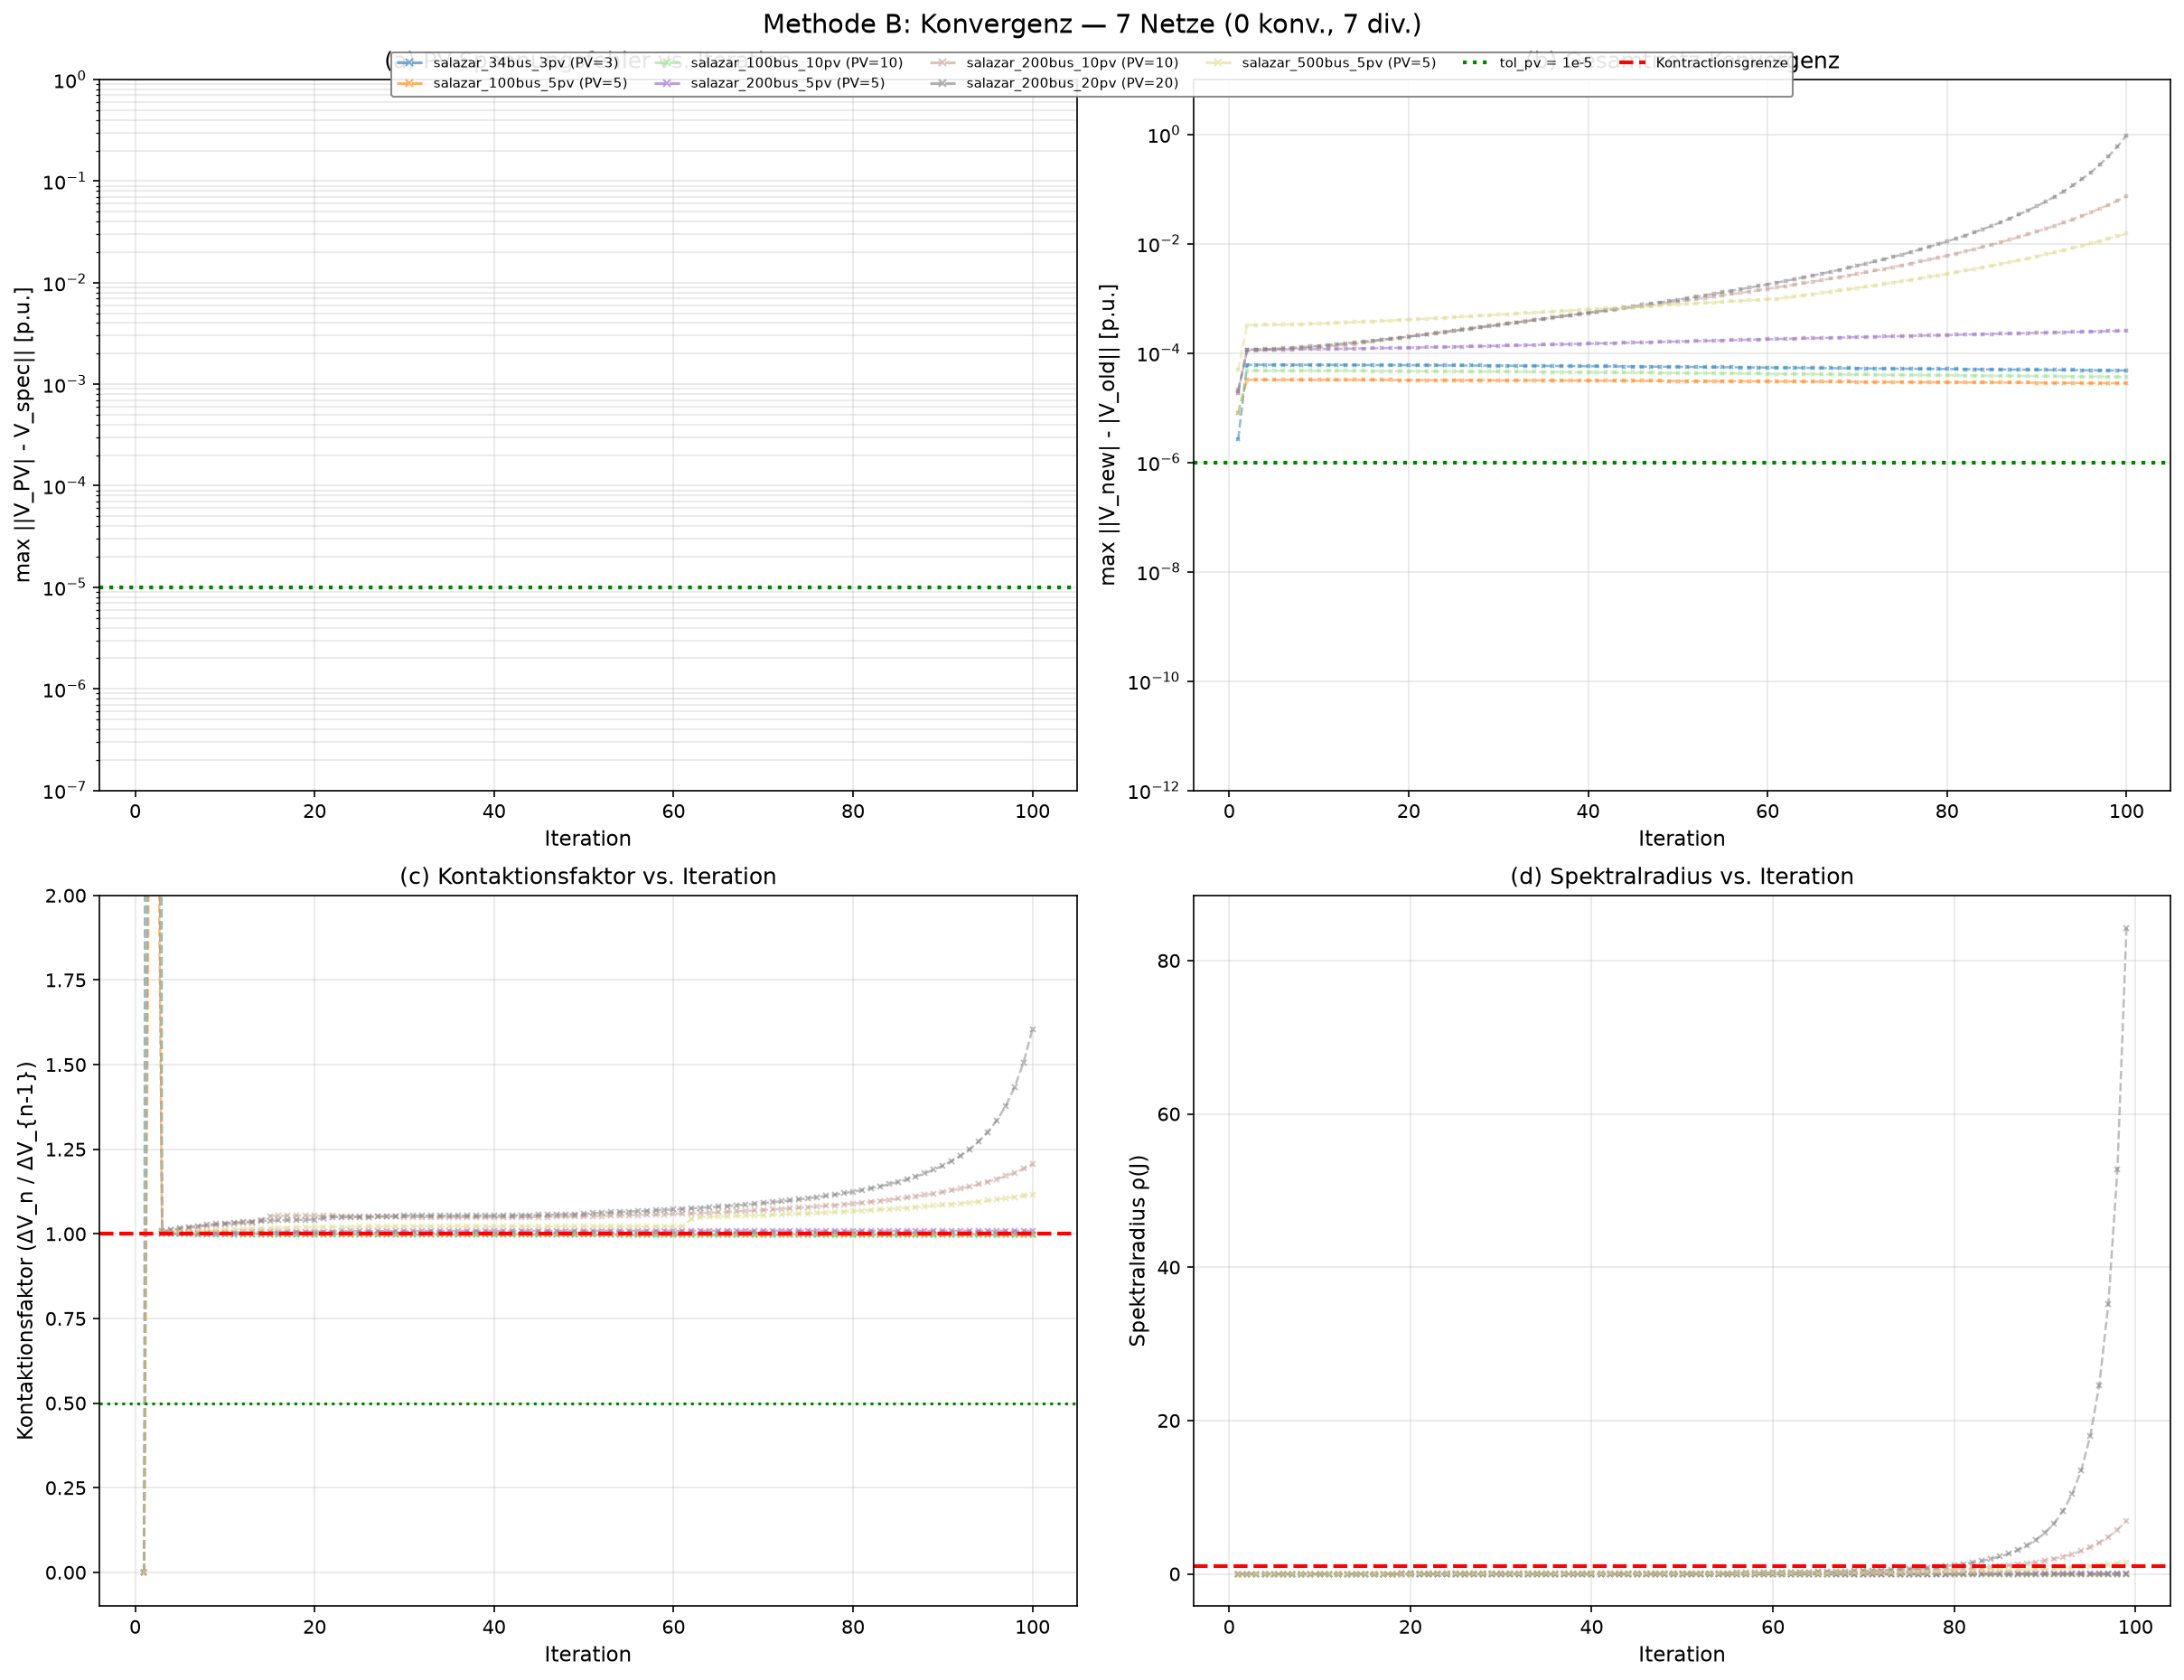
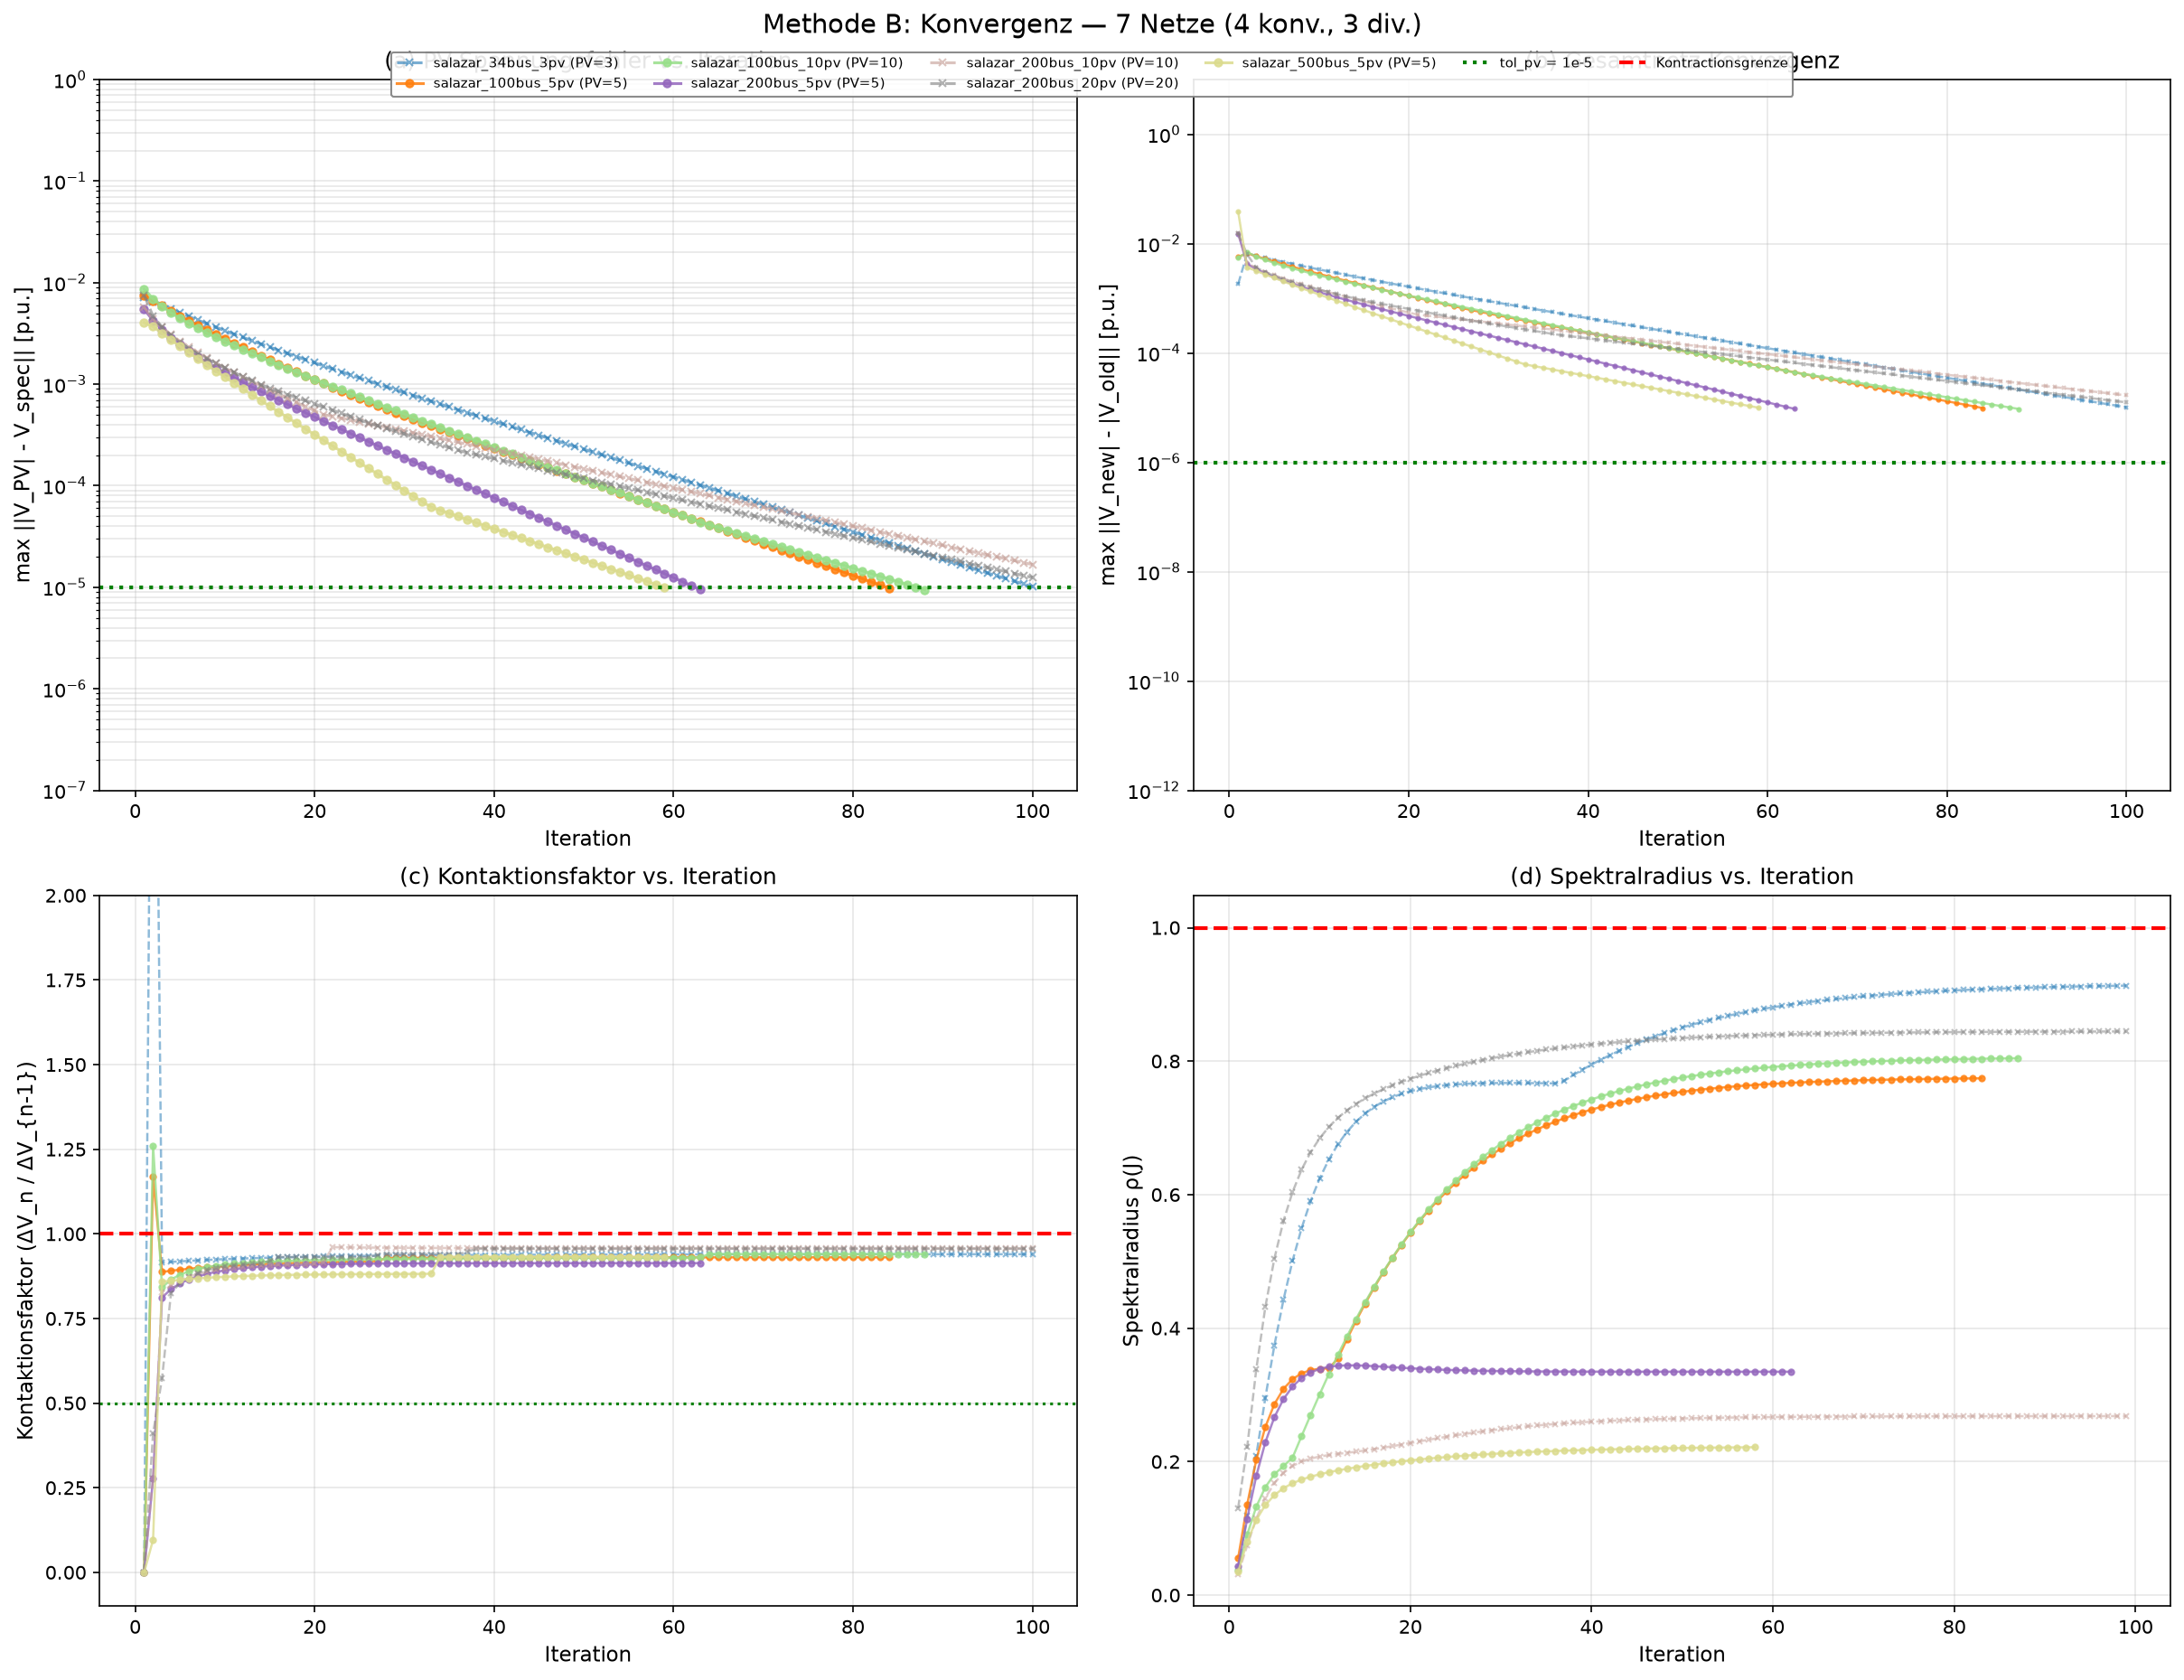
code commit: method b 4bus validator

diff --git a/Code/tensor_power_flow/scripts/validate_pv_method_b_4bus.py b/Code/tensor_power_flow/scripts/validate_pv_method_b_4bus.py
@@ -117,9 +117,9 @@ def main():
 
     # ── 4. Methode B loesen (MIT Historie) ──
     solver_b = TPFDensePVMethodB(
-        tol=1e-10,
+        tol=1e-6,
         max_iter=200,
-        tol_pv=1e-8,
+        tol_pv=1e-6,
         enforce_q_lims=False,
         track_convergence=True,
     )